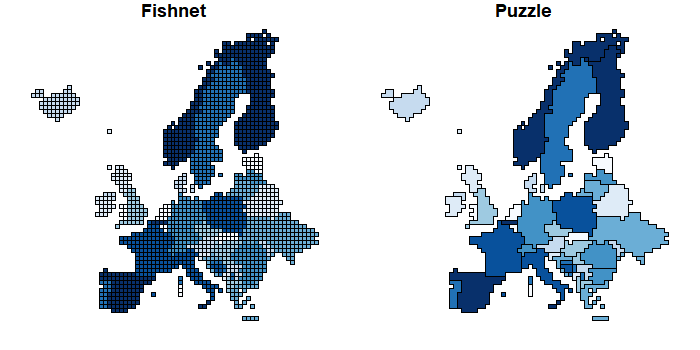
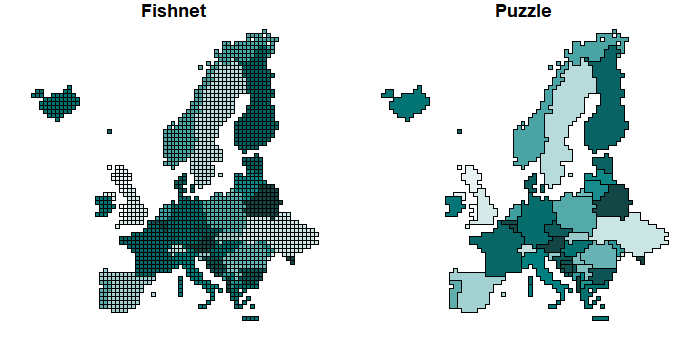
Drafting

diff --git a/_drafts/2019-05-30-Beautiful1.md b/_drafts/2019-05-30-Beautiful1.md
@@ -2,10 +2,6 @@ Beautiful Maps with R (I): Fishnets. Honeycombs and Pixels
 ================
 2019-05-30
 
-layout: post share-img:
-<https://dieghernan.github.io/assets/figs/20190513_imgpost.png>
-img-to-head: true linktormd: true
-
 Sometimes you want to produce maps with special layouts. I specially
 like maps with modified geometries, e.g. simplifiying the original
 shapes to squares or dots. When doing a little search over the web I
@@ -64,6 +60,10 @@ europe <- st_transform(europe, 3857) %>% select(NAME_EN, ADM0_A3)
 initial <- europe
 initial$index_target <- 1:nrow(initial)
 target <- st_geometry(initial)
+
+# Create my own color palette
+
+mypal <- colorRampPalette(c("#F3F8F8", "#008080", "#15403F"))
 ```
 
 {: .box-warning} <i class="fa fa-exclamation-triangle"></i> **Warning:**
@@ -122,9 +122,10 @@ Puzzle <- left_join(
   select(-index_target)
 
 
+
 par(mfrow = c(1, 2), mar = c(1, 1, 1, 1))
-plot(st_geometry(Fishnet), col = brewer.pal(12, "Blues"), main = "Fishnet")
-plot(st_geometry(Puzzle), col = brewer.pal(12, "Blues"), main = "Puzzle")
+plot(st_geometry(Fishnet), col = mypal(nrow(Fishnet)), main = "Fishnet")
+plot(st_geometry(Puzzle), col = mypal(nrow(Fishnet)), main = "Puzzle")
 ```
 
 <img src="2019-05-30-Beautiful1_files/figure-gfm/20190530_squares-1.png" style="display: block; margin: auto;" />
@@ -184,8 +185,8 @@ Hexbin <- left_join(
 
 
 par(mfrow = c(1, 2), mar = c(1, 1, 1, 1))
-plot(st_geometry(Honeycomb), col = brewer.pal(7, "Blues"), main = "Honeycomb")
-plot(st_geometry(Hexbin), col = brewer.pal(7, "Blues"), main = "Hexbin")
+plot(st_geometry(Honeycomb), col = mypal(nrow(Honeycomb)), main = "Honeycomb")
+plot(st_geometry(Hexbin), col = mypal(nrow(Honeycomb)), main = "Hexbin")
 ```
 
 <img src="2019-05-30-Beautiful1_files/figure-gfm/20190530_hex-1.png" style="display: block; margin: auto;" />
